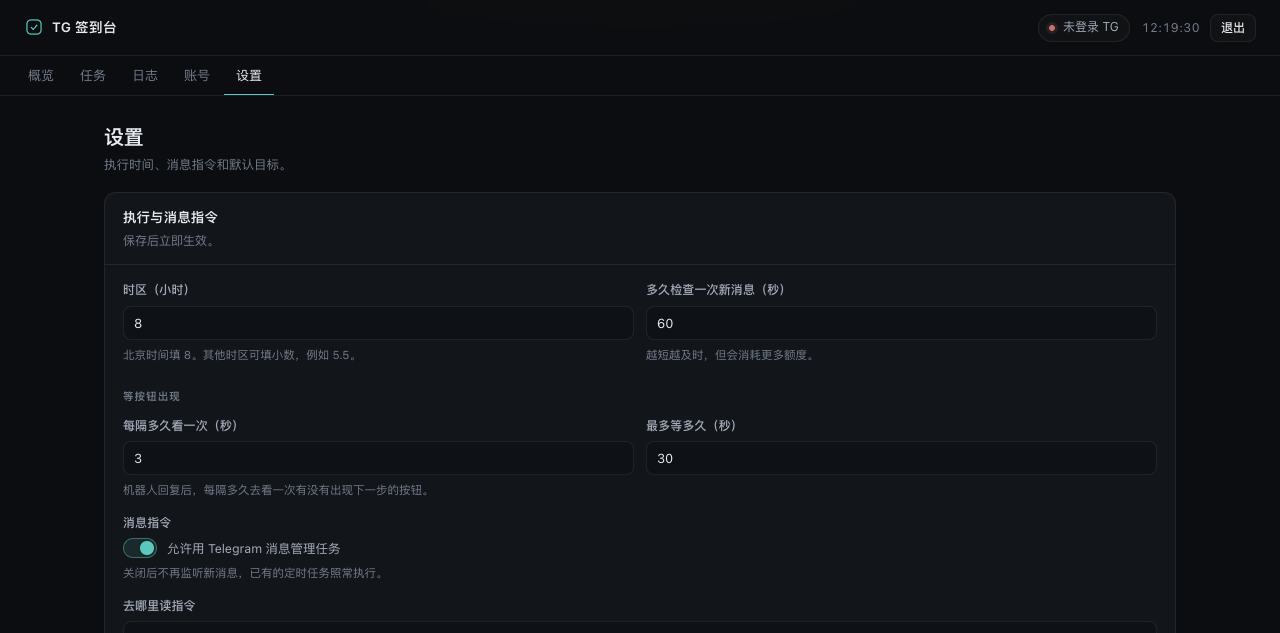
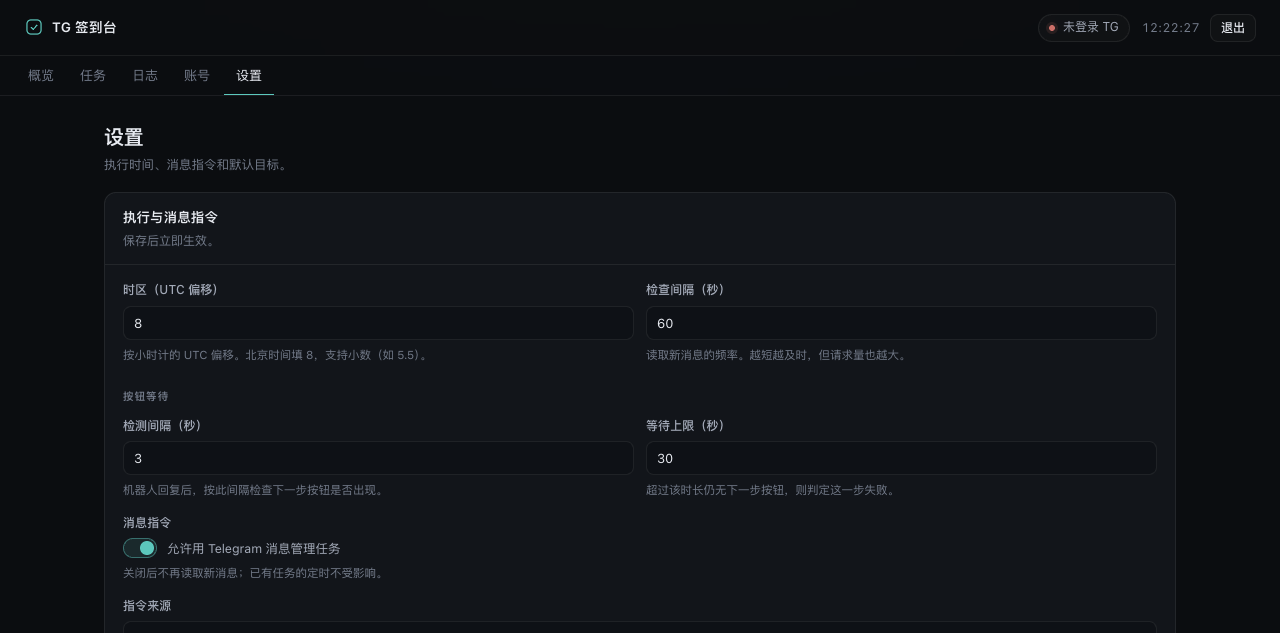
docs(ui): 配置项改成「名词短语 +（单位）」；新增文案规范
上一版把标签写成了「多久检查一次新消息（秒）」这类口语句，不像配置项。统一为：
  检查间隔（秒）/ 检测间隔（秒）/ 等待上限（秒）/ 时区（UTC 偏移）/
  指令来源 / 指令前缀 / 管理员 ID / 默认目标 / 步骤间隔（秒）/ 定位方式

- 概览状态同步收敛：来源 收藏夹 · 检查间隔 60s；按钮检测 3s / 上限 30s
- 新增 docs/UI_COPY.md：语气、配置项命名规则、术语表（MTProto→Telegram 连接、
  触发器→消息指令…）、提示语/按钮/空状态/错误信息写法，防止后续改动回退

diff --git a/public/app.js b/public/app.js
@@ -577,7 +577,7 @@ function renderOverview() {
       label: "消息指令",
       dot: settings.triggerEnabled ? "ok" : "idle",
       value: settings.triggerEnabled ? "运行中" : "已关闭",
-      foot: `在${controlChatLabel(settings)}里发指令 · 每 ${Number(settings.pollSeconds) || 60} 秒检查一次${
+      foot: `来源 ${controlChatLabel(settings)} · 检查间隔 ${Number(settings.pollSeconds) || 60}s${
         runtime && runtime.nextPollAt ? `（下次 ${formatClock(runtime.nextPollAt)}）` : ""
       }`,
       sub:
@@ -593,7 +593,7 @@ function renderOverview() {
               runtime.lastTriggerEvent.at,
             )}）`
           : "最近事件：还没处理过消息指令",
-      sub: `等按钮：每 ${Number(settings.stepPollSeconds) || 3}s 看一次，最多等 ${Number(settings.stepWaitSeconds) || 30}s`,
+      sub: `按钮检测 ${Number(settings.stepPollSeconds) || 3}s / 上限 ${Number(settings.stepWaitSeconds) || 30}s`,
     }),
   );
 
@@ -639,7 +639,7 @@ function renderOverview() {
             "p",
             { class: "hint-sub" },
             settings.triggerEnabled
-              ? "会自动读取新消息。支持点击按钮、随机文本、成功关键词等写法。"
+              ? "会自动读取新消息，支持点击按钮、随机文本、成功关键词等写法。"
               : "消息指令已关闭，可在设置里重新开启。",
           ),
           el("a", { class: "link link-sm", href: "#/settings" }, "看看怎么写指令", icon("arrowRight", { size: 14 })),
@@ -1644,40 +1644,40 @@ function renderSettings() {
       { class: "form-row" },
       field({
         id: "settings-timezone",
-        label: "时区（小时）",
+        label: "时区（UTC 偏移）",
         control: numberControl("timezone", settings.timezone ?? 8, { step: "0.5", min: "-12", max: "14" }),
-        hint: "北京时间填 8。其他时区可填小数，例如 5.5。",
+        hint: "按小时计的 UTC 偏移。北京时间填 8，支持小数（如 5.5）。",
       }),
       field({
         id: "settings-pollSeconds",
-        label: "多久检查一次新消息（秒）",
+        label: "检查间隔（秒）",
         control: numberControl("pollSeconds", settings.pollSeconds ?? 60, { step: "5", min: "15", max: "3600" }),
-        hint: "越短越及时，但会消耗更多额度。",
+        hint: "读取新消息的频率。越短越及时，但请求量也越大。",
       }),
     ),
-    el("div", { class: "form-section-title" }, "等按钮出现"),
+    el("div", { class: "form-section-title" }, "按钮等待"),
     el(
       "div",
       { class: "form-row" },
       field({
         id: "settings-stepPollSeconds",
-        label: "每隔多久看一次（秒）",
+        label: "检测间隔（秒）",
         control: numberControl("stepPollSeconds", settings.stepPollSeconds ?? 3, {
           step: "1",
           min: "1",
           max: "30",
         }),
-        hint: "机器人回复后，每隔多久去看一次有没有出现下一步的按钮。",
+        hint: "机器人回复后，按此间隔检查下一步按钮是否出现。",
       }),
       field({
         id: "settings-stepWaitSeconds",
-        label: "最多等多久（秒）",
+        label: "等待上限（秒）",
         control: numberControl("stepWaitSeconds", settings.stepWaitSeconds ?? 30, {
           step: "5",
           min: "5",
           max: "300",
         }),
-        hint: "超过这个时间还没出现下一步，就算这一步失败。",
+        hint: "超过该时长仍无下一步按钮，则判定这一步失败。",
       }),
     ),
     el(
@@ -1695,31 +1695,31 @@ function renderSettings() {
         el("span", { class: "switch-track", "aria-hidden": "true" }),
         el("span", { class: "switch-text" }, "允许用 Telegram 消息管理任务"),
       ),
-      el("p", { class: "field-hint" }, "关闭后不再读取新消息；已有任务的定时照常执行。"),
+      el("p", { class: "field-hint" }, "关闭后不再读取新消息；已有任务的定时不受影响。"),
     ),
     field({
       id: "settings-controlChat",
-      label: "去哪里读指令",
+      label: "指令来源",
       control: textControl("controlChat", settings.controlChat ?? "self", "self"),
-      hint: "默认 self = 收藏夹。也可以填群组 @用户名 或数字 ID。",
+      hint: "默认 self（收藏夹）。也可填群组 @用户名 或数字 ID。",
     }),
     field({
       id: "settings-triggerPrefix",
       label: "指令前缀",
       control: textControl("triggerPrefix", settings.triggerPrefix ?? "", "默认 tg；留空 = 所有消息都解析"),
-      hint: "只有以它开头的消息才会被当成指令（如「tg 9.30 签到」），收藏夹里的随手笔记不会被误解析。转发过来的消息仍会自动识别目标；留空表示所有消息都解析。",
+      hint: "仅以该前缀开头的消息会被解析为指令（如「tg 9.30 签到」）。留空表示解析全部消息。",
     }),
     field({
       id: "settings-adminUserId",
-      label: "管理员 Telegram ID",
+      label: "管理员 ID",
       control: textControl("adminUserId", settings.adminUserId ?? "", "", "numeric"),
-      hint: "填了之后，只有这个账号发的消息指令才生效（换成群组时建议填）。",
+      hint: "仅该 Telegram 账号发出的指令有效。指令来源改为群组时建议填写。",
     }),
     field({
       id: "settings-defaultTarget",
       label: "默认目标",
       control: textControl("defaultTarget", settings.defaultTarget ?? "", "@username 或数字 id"),
-      hint: "消息里认不出要发给谁时用这个，例如 @jerry_bot。",
+      hint: "指令中未能识别目标时使用，例如 @jerry_bot。",
     }),
     el("div", { class: "form-section-title" }, "登录验证（Cloudflare Turnstile）"),
     field({
@@ -1917,8 +1917,8 @@ function testerCard() {
   textarea.value = state.testText || "";
 
   return card({
-    title: "试试一条指令",
-    description: "把你想发的指令粘进来，看看会建出什么任务。",
+    title: "指令试算",
+    description: "输入一条指令，预览会解析成什么任务。",
     actions: [
       btn("查一下", {
         variant: "primary",

diff --git a/public/editor.js b/public/editor.js
@@ -410,7 +410,7 @@ export function openTaskEditor({ task = null, defaultTarget = "", onSaved } = {}
         el("option", { value: "pos", selected: step._mode === "pos" ? true : undefined }, "按行列位置"),
       );
       container.append(
-        field({ id: id(`${prefix}-mode`), label: "怎么找按钮", control: modeSelect }),
+        field({ id: id(`${prefix}-mode`), label: "定位方式", control: modeSelect }),
       );
       if (step._mode === "pos") {
         container.append(
@@ -461,7 +461,7 @@ export function openTaskEditor({ task = null, defaultTarget = "", onSaved } = {}
                 step.text = event.target.value;
               },
             }),
-            hint: "先找文字完全一致的，再找包含这段文字的。",
+            hint: "按按钮文字定位：优先完全一致，其次包含匹配。",
           }),
         );
       }
@@ -580,12 +580,12 @@ export function openTaskEditor({ task = null, defaultTarget = "", onSaved } = {}
               model.deleteAfterSeconds = Number(event.target.value);
             },
           }),
-          hint: "0 表示不删。填了就在这么多秒后删掉自己发出的消息。",
+          hint: "0 表示不删除。非 0 时在发送后该秒数删除自己发出的消息。",
         }),
       ),
       field({
         id: id("step-delay"),
-        label: "两步之间间隔（秒）",
+        label: "步骤间隔（秒）",
         control: el("input", {
           class: "input",
           id: id("step-delay"),
@@ -598,7 +598,7 @@ export function openTaskEditor({ task = null, defaultTarget = "", onSaved } = {}
             model.stepDelaySeconds = Number(event.target.value);
           },
         }),
-        hint: "每执行完一步停多久再做下一步，默认 3 秒。机器人反应慢可以调大。",
+        hint: "每执行完一步的停顿时间，默认 3 秒。机器人响应慢可调大。",
       }),
       el(
         "label",
@@ -627,7 +627,7 @@ export function openTaskEditor({ task = null, defaultTarget = "", onSaved } = {}
           "p",
           { class: "field-hint" },
           defaultTarget
-            ? `留空时，会发到设置里的默认目标：${defaultTarget}`
+            ? `留空时使用设置里的默认目标：${defaultTarget}`
             : "填 @username 或数字 id；点「解析」可以确认解析到的会话。",
         ),
       );

diff --git a/docs/UI_COPY.md b/docs/UI_COPY.md
@@ -1,0 +1,76 @@
+# 界面文案规范
+
+> 这份文件是为了让后面的改动**不把文案带回去**。改 UI 文字前先看一眼。
+
+## 语气
+
+- 面向"会用 Telegram、但不想懂实现"的人。**说它是什么、怎么影响行为**，不解释内部机制。
+- 不用感叹号、不卖萌、不用"哦/啦/呢"。不用「请」堆礼貌，一句话说清即可。
+- 中文全角标点；数字和单位之间不留空格（`3 秒` 写 `3 秒`，但括号里用半角：`（秒）`）。
+
+## 配置项命名
+
+**名词短语 +（单位）**，不要"多久做一次"这种口语化的动词句。
+
+| ✅ 正确 | ❌ 避免 |
+| --- | --- |
+| 检查间隔（秒） | 多久检查一次新消息（秒） |
+| 检测间隔（秒） | 每隔多久看一次（秒） |
+| 等待上限（秒） | 最多等多久（秒） |
+| 时区（UTC 偏移） | 时区（小时） |
+| 指令来源 | 去哪里读指令 |
+| 管理员 ID | 管理员 Telegram ID |
+| 步骤间隔（秒） | 两步之间间隔（秒） |
+| 定位方式 | 怎么找按钮 |
+
+## 术语表（统一说法）
+
+| 实现里的词 | 界面上的说法 |
+| --- | --- |
+| MTProto / 会话 / session | Telegram 连接 / 登录状态 |
+| 触发器 / trigger | 消息指令 |
+| 轮询 / polling | 检查（"检查间隔"） |
+| 步骤检测 / stepWait | 按钮等待 / 检测间隔 |
+| 动作流水线 / steps | 执行步骤 |
+| DSL / 触发语法 | 指令写法 |
+| 凭据 / credentials | 应用信息（应用 ID / 应用密钥） |
+| 落库 / 写入数据库 | 保存 |
+| 解析 / parse | 识别 / 解析（"指令试算"里可用） |
+
+字段的技术名（`controlChat`、`adminUserId`、`triggerPrefix` …）**不要出现在标签里**；
+确有必要时放在提示语末尾，或者干脆省略（README / docs 里会写）。
+
+## 提示语（hint）
+
+一句"它是什么"，必要时加一句"会影响什么"。控制在 40 字内。
+
+```
+✅ 读取新消息的频率。越短越及时，但请求量也越大。
+✅ 仅该 Telegram 账号发出的指令有效。指令来源改为群组时建议填写。
+✅ 超过该时长仍无下一步按钮，则判定这一步失败。
+❌ 越小越及时，但会消耗更多请求。        （"请求"是开发者词）
+❌ 只有这个 id 能通过消息命令管理任务，留空表示不校验。（主谓宾像文档，不像界面）
+```
+
+## 按钮与状态
+
+- 按钮：2–4 字动词短语 ——「新建任务」「运行全部」「立即执行」「保存设置」「清空日志」。
+- 状态：短名词 + 标点 ——「运行中」「已关闭」「空闲（需要时自动连接）」「已连接」。
+- 危险操作必须二次确认，确认文案要说清后果：`退出后会清除登录状态，定时任务在重新登录前不会执行。`
+
+## 空状态
+
+一句话说明**为什么是空的** + 一条**下一步该做什么**，不要只写"暂无数据"。
+
+```
+还没有执行记录
+手动运行一次，或在收藏夹里发条指令试试。
+```
+
+筛选导致的空状态要与"真的没有数据"区分，并提供一键清空筛选。
+
+## 错误信息
+
+- 说清**发生了什么** + **用户能做什么**，不要抛内部错误名。
+- Telegram 的原始错误（如 `PHONE_MIGRATE_5`）可以保留，但要附一句怎么办。
+- 日志里可以写技术细节；界面上不行。

diff --git a/CHANGELOG.md b/CHANGELOG.md
@@ -11,6 +11,13 @@ git push --follow-tags # 触发部署（Workers Builds / GitHub Actions）
 
 ## [Unreleased]
 
+## [0.4.3] - 2026-10-24
+
+- 配置项命名规范化：**名词短语 +（单位）**，不再用「多久检查一次新消息」这类口语
+  （→ 检查间隔 / 检测间隔 / 等待上限 / 时区（UTC 偏移）/ 指令来源 / 管理员 ID）
+- 新增 [docs/UI_COPY.md](docs/UI_COPY.md)：语气、命名规则、术语表、提示语/按钮/空状态/错误信息写法，
+  避免后续改动把文案带回去
+
 ## [0.4.2] - 2026-10-24
 
 前端文案整体去"开发味"（只改字面，不动功能）：

diff --git a/README.md b/README.md
@@ -308,6 +308,7 @@ public/                   管理界面（纯静态）
 build/patches/            teleproto 的 no-eval 补丁
 tests/                    纯逻辑单测（time / dsl / buttons / targets / guard / task）
 docs/API.md               前后端接口契约
+docs/UI_COPY.md           界面文案规范（术语表 / 命名规则）
 docs/DEPLOY.md            部署、secrets、排查表
 SECURITY.md               安全审计记录
 ```
